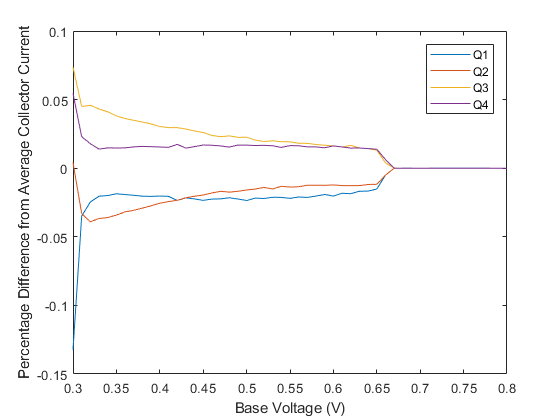
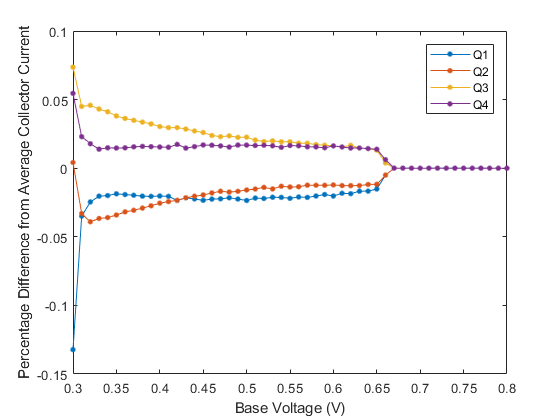
more plots

diff --git a/Lab 4/plot_set_up_exp2_exp3.m b/Lab 4/plot_set_up_exp2_exp3.m
@@ -1,0 +1,24 @@
+load('') % .mat file
+%%
+clf
+
+loglog( , ,'Marker','.','MarkerSize',12) % Ix1, Iz1, Marker stuff - I found this looks pretty good
+hold on
+loglog( , ,'Marker','.','MarkerSize',12) % Ix2, Iz2, Marker stuff - I found this looks pretty good
+loglog( , ,'Marker','.','MarkerSize',12) % Ix3, Iz3, Marker stuff - I found this looks pretty good
+xlabel('Log of Ix (A)')
+ylabel('Log of Iz (A)')
+
+legend('','','') % name them, probably something to do with each value of Iy
+
+%%
+clf
+
+loglog( , ,'Marker','.','MarkerSize',12) % Iy1, Iz1, Marker stuff - I found this looks pretty good
+hold on
+loglog( , ,'Marker','.','MarkerSize',12) % Iy2, Iz2, Marker stuff - I found this looks pretty good
+loglog( , ,'Marker','.','MarkerSize',12) % Iy3, Iz3, Marker stuff - I found this looks pretty good
+xlabel('Log of Iy (A)')
+ylabel('Log of Iz (A)')
+
+legend('','','') % name them, probably something to do with each value of Ix

diff --git a/Lab 4/lab4_Jamie.m b/Lab 4/lab4_Jamie.m
@@ -65,11 +65,11 @@ perc_b = diff_b ./ Ic_avg;
 perc_c = diff_c ./ Ic_avg;
 perc_d = diff_d ./ Ic_avg;
 
-plot(Vb1a, perc_a)
+plot(Vb1a, perc_a,'Marker','.','MarkerSize',12)
 hold on
-plot(Vb1b, perc_b)
-plot(Vb1c, perc_c)
-plot(Vb1d, perc_d)
+plot(Vb1b, perc_b,'Marker','.','MarkerSize',12)
+plot(Vb1c, perc_c,'Marker','.','MarkerSize',12)
+plot(Vb1d, perc_d,'Marker','.','MarkerSize',12)
 
 ylabel('Percentage Difference from Average Collector Current')
 xlabel('Base Voltage (V)')
